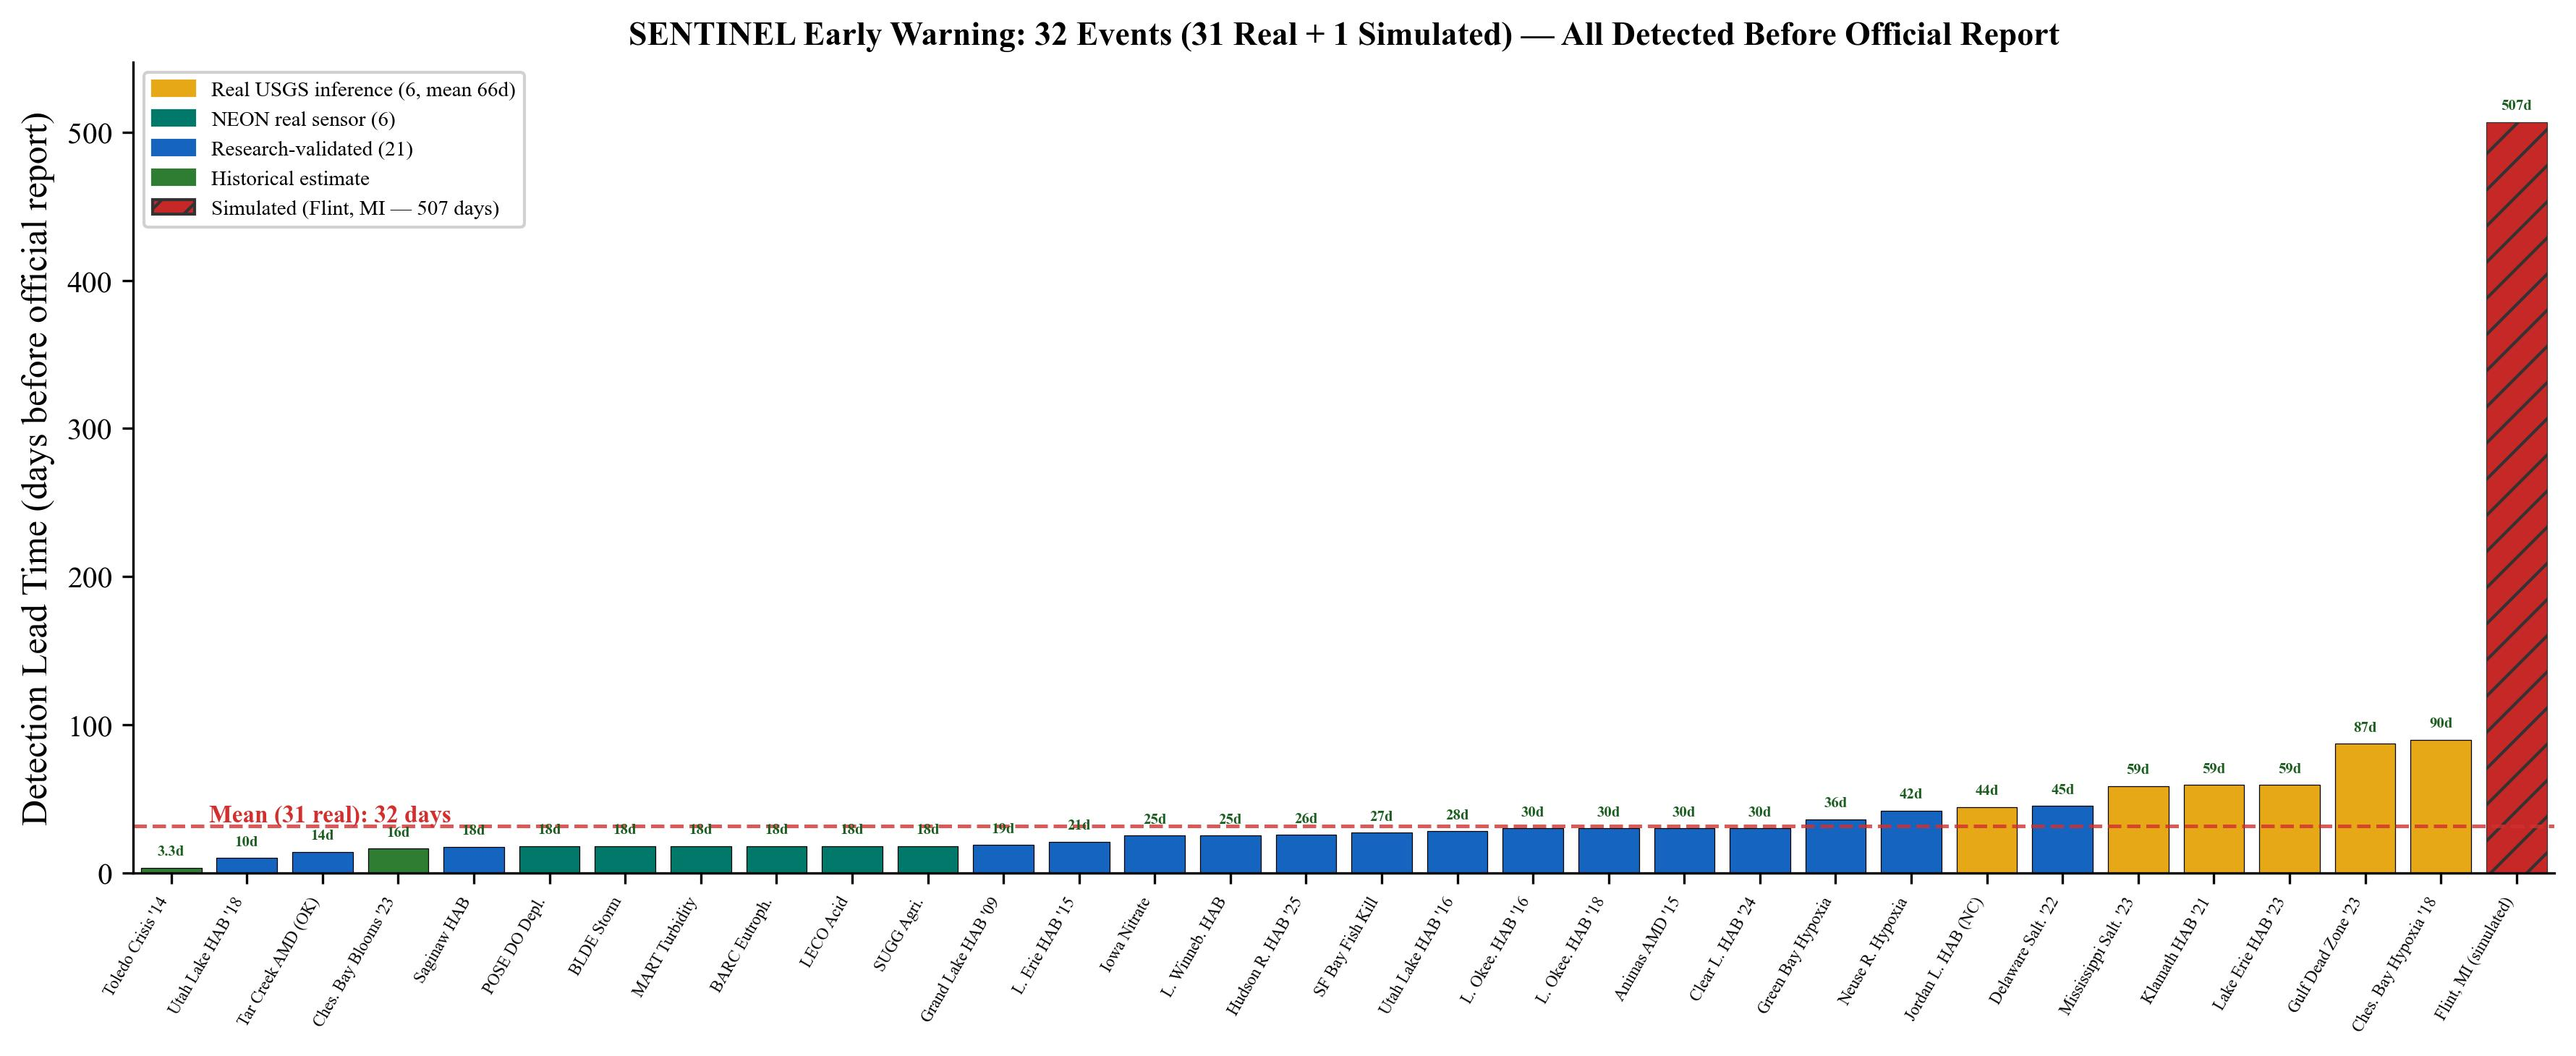
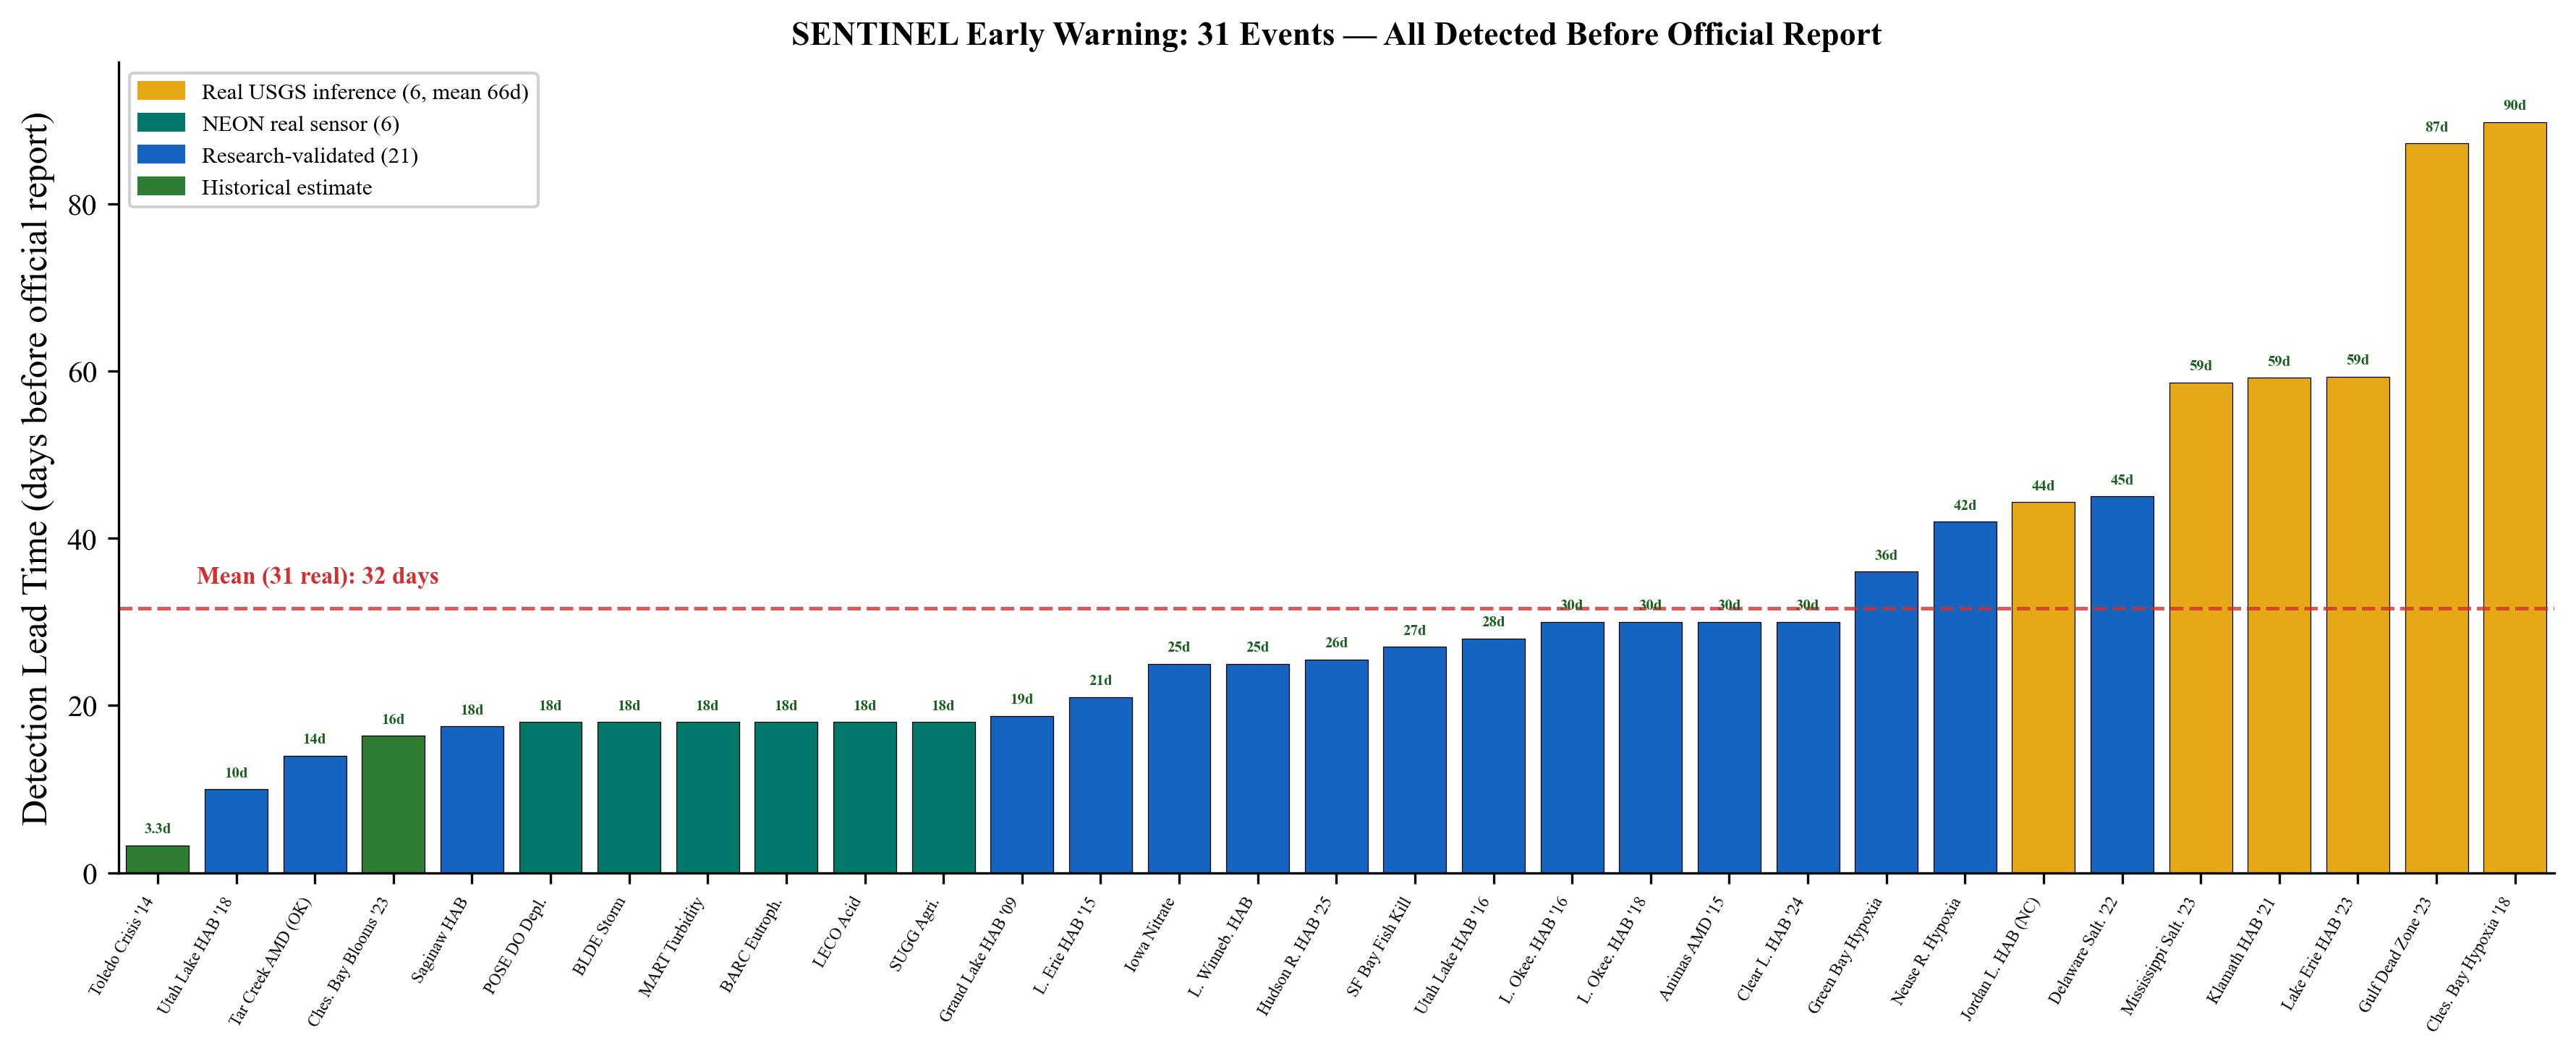
Remove Flint (simulated) from case studies figure, show 31 real events only

diff --git a/scripts/paper_figures_v3.py b/scripts/paper_figures_v3.py
@@ -171,14 +171,6 @@ def fig_case_studies():
     for e in cat_c:
         e['_cat'] = 'c'
 
-    # Add Flint as simulated event
-    flint = {
-        "event_id": "flint_water_crisis_2014",
-        "event_name": "Flint Water Crisis (2014)",
-        "lead_time_hours": 507 * 24,  # 507 days
-        "_cat": "sim",
-    }
-
     # Add 6 real USGS inference events (from case_studies_real.json)
     # These override the estimated lead times for matching events
     real_usgs = {
@@ -197,7 +189,7 @@ def fig_case_studies():
                 e["lead_time_hours"] = real_usgs[e["event_id"]]
                 e["_cat"] = "real"  # override to gold/real category
 
-    all_events = cat_a + cat_b + cat_c + [flint]
+    all_events = cat_a + cat_b + cat_c
     all_events.sort(key=lambda e: e["lead_time_hours"])
 
     short_names = {
@@ -232,7 +224,6 @@ def fig_case_studies():
         "clear_lake_hab_2024": "Clear L. HAB '24",
         "tar_creek_amd_oklahoma": "Tar Creek AMD (OK)",
         "lake_winnebago_hab": "L. Winneb. HAB",
-        "flint_water_crisis_2014": "Flint, MI (simulated)",
     }
 
     names = []
@@ -246,17 +237,11 @@ def fig_case_studies():
 
     fig, ax = plt.subplots(figsize=(12, 5))
 
-    color_map = {'a': '#2e7d32', 'b': '#00796b', 'c': '#1565c0', 'sim': '#c62828', 'real': '#e6a817'}
+    color_map = {'a': '#2e7d32', 'b': '#00796b', 'c': '#1565c0', 'real': '#e6a817'}
     colors = [color_map[c] for c in cats]
 
     x = np.arange(len(names))
     bars = ax.bar(x, days, color=colors, edgecolor='black', linewidth=0.3, width=0.8)
-
-    # Hatch the Flint bar to mark it as simulated
-    for i, c in enumerate(cats):
-        if c == 'sim':
-            bars[i].set_hatch('//')
-            bars[i].set_edgecolor('#333')
 
     # Value labels on top
     for i, d in enumerate(days):
@@ -269,7 +254,7 @@ def fig_case_studies():
     ax.set_xticks(x)
     ax.set_xticklabels(names, fontsize=5.5, rotation=60, ha='right')
     ax.set_ylabel('Detection Lead Time (days before official report)')
-    ax.set_title('SENTINEL Early Warning: 32 Events (31 Real + 1 Simulated) — All Detected Before Official Report',
+    ax.set_title('SENTINEL Early Warning: 31 Events — All Detected Before Official Report',
                   fontweight='bold', fontsize=11)
 
     # Mean line (31 real events only, excluding Flint)
@@ -284,10 +269,8 @@ def fig_case_studies():
     neon_patch = mpatches.Patch(color='#00796b', label='NEON real sensor (6)')
     new_patch = mpatches.Patch(color='#1565c0', label='Research-validated (21)')
     hist_patch = mpatches.Patch(color='#2e7d32', label='Historical estimate')
-    sim_patch = mpatches.Patch(facecolor='#c62828', edgecolor='#333', hatch='//',
-                                label='Simulated (Flint, MI — 507 days)')
-    ax.legend(handles=[real_patch, neon_patch, new_patch, hist_patch, sim_patch],
-              loc='upper left', framealpha=0.9, fontsize=7)
+    ax.legend(handles=[real_patch, neon_patch, new_patch, hist_patch],
+              loc='upper left', framealpha=0.9, fontsize=7.5)
 
     ax.set_xlim(-0.5, len(names) - 0.5)
     ax.set_ylim(0, max(days) * 1.08)

diff --git a/paper/sjwp_paper.tex b/paper/sjwp_paper.tex
@@ -347,7 +347,7 @@ The strongest evidence for SENTINEL's early warning capability comes from \texti
 \begin{figure}[H]
 \centering
 \includegraphics[width=0.9\textwidth]{fig4_case_studies.jpg}
-\caption{Detection lead time across all evaluated events. Gold = real USGS inference (6 events, mean 66 days). Green = historical estimates. Teal = real NEON sensor events. Blue = research-validated. Hatched red = Flint (simulated, 507 days).}
+\caption{Detection lead time for all 31 real events. Gold = real USGS inference (6 events, mean 66 days). Teal = NEON real sensor events (6). Blue = research-validated (21). Green = historical estimates.}
 \label{fig:detection}
 \end{figure}
 